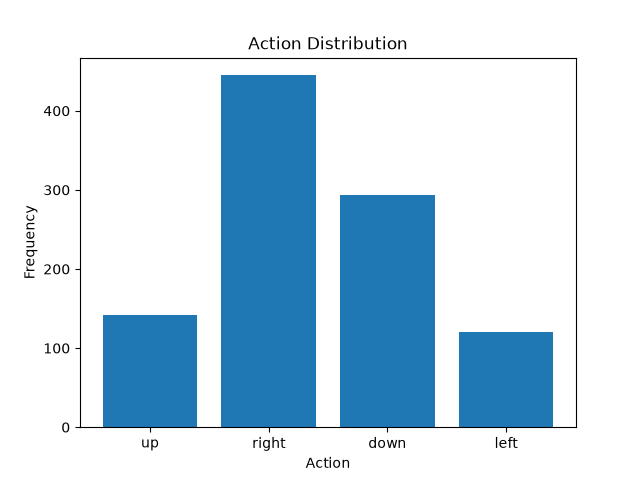
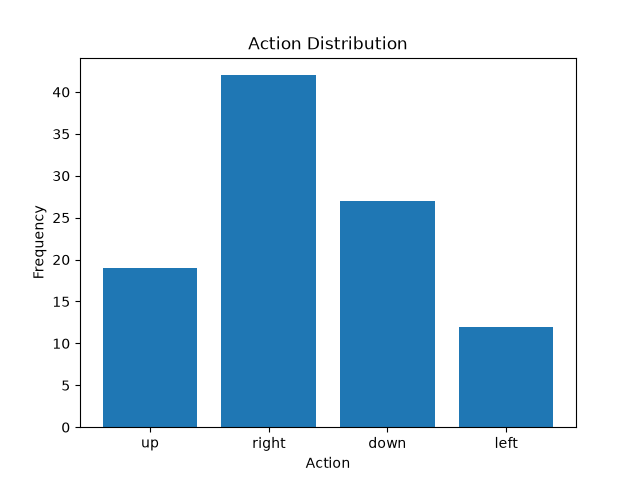
problem reproduction

diff --git a/toy/test_with_athelte.py b/toy/test_with_athelte.py
@@ -12,7 +12,7 @@ def run():
         algorithm_id="dqn",
         action_space=env.action_space,
         observation_space=env.observation_space["agent"],
-        seed=42, # optional,
+        # seed=42, # optional,
         device="cuda" if torch.cuda.is_available() else "mps" if torch.backends.mps.is_available() else "cpu"
     )
 
@@ -51,7 +51,7 @@ def run():
     env.close()
     return overfitting,action
 
-def main(times=1000):
+def main(times=100):
     gym.register(
         id="MyGridWorld-v0",
         entry_point="env:GridWorldEnv",

diff --git a/toy/run.py b/toy/run.py
@@ -73,7 +73,7 @@ def run():
     train_environment.close()
     return overfitting,action
 
-def main(times=1000):
+def main(times=100):
     gym.register(
         id="MyGridWorld-v0",
         entry_point="env:GridWorldEnv",
